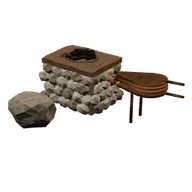
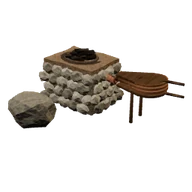
Avance: la fragua, el lecho del barro del horno, su fuego más bajo y las horquillas de madera; iconos v40 de nuevo
Claude-Session: https://claude.ai/code/session_011XgxtmKxw3WqFnpy7a4tHE

Changed region(s): [[0.2188, 0.2188, 0.6562, 0.4062], [0.6562, 0.5, 0.75, 0.625]]

diff --git a/src/juego/estaciones.js b/src/juego/estaciones.js
@@ -422,7 +422,7 @@ function humoHorno(id) {
 // de cara plana, medio hundida en el suelo. El carbón puesto para arder se ve en la cubeta; encendida, el fuego de la
 // hoguera (src/juego/estaciones.js, modeloFuego) arde encima del lecho.
 const FRAGUA = { ancho: 0.95, fondo: 0.72, alto: 0.72 };
-const BARRO_FRAGUA = 0x6b5848;
+const BARRO_FRAGUA = 0x7d6a58;   // (el barro seco del horno de reducción)
 function fragua(id) {
   const { ancho: X, fondo: Z, alto: A } = FRAGUA, L = new Lote({ rangoSuelo: 0.3, variacion: 0.08 });
   L.add(new THREE.BoxGeometry(X - 0.1, A - 0.06, Z - 0.1), 'piedraOsc', 0, (A - 0.06) / 2, 0, null, { tex: 'piedra' });   // el relleno, que no se vea por los huecos
@@ -441,7 +441,7 @@ function fragua(id) {
     }
   }
   // el lecho de barro de arriba, con el borde redondeado, y la cubeta del fuego en medio, quemada
-  const lecho = new THREE.BoxGeometry(X + 0.03, 0.08, Z + 0.03, 6, 1, 5), pl = lecho.attributes.position;   // pisado a mano: ni plano ni recto
+  const lecho = new THREE.BoxGeometry(X - 0.04, 0.06, Z - 0.04, 6, 1, 5), pl = lecho.attributes.position;   // pisado a mano: ni plano ni recto
   for (let i = 0; i < pl.count; i++) { const k = Math.round(pl.getX(i) * 40) + ':' + Math.round(pl.getZ(i) * 40); pl.setY(i, pl.getY(i) + (pl.getY(i) > 0 ? (az(id, 'l' + k) - 0.5) * 0.025 : 0)); pl.setX(i, pl.getX(i) * (1 + (az(id, 'x' + k) - 0.5) * 0.05)); pl.setZ(i, pl.getZ(i) * (1 + (az(id, 'z' + k) - 0.5) * 0.05)); }
   lecho.computeVertexNormals();
   L.add(lecho, BARRO_FRAGUA, 0, A - 0.03, 0, null, { tex: 'piedra', sinSuelo: true });
@@ -453,8 +453,8 @@ function fragua(id) {
   L.add(new THREE.TorusGeometry(0.05, 0.012, 5, 12), 'tejaOsc', X / 2 + 0.16, A - 0.19, 0, { y: Math.PI / 2 }, { sinSuelo: true });
   // las dos horquillas de vara del fuelle
   for (const dz of [-0.13, 0.13]) {
-    L.add(cil(0.018, 0.022, 0.5, 6), 'corteza', X / 2 + 0.52, 0.25, dz, null, {});
-    for (const s of [-1, 1]) L.add(cil(0.012, 0.016, 0.12, 5), 'corteza', X / 2 + 0.52 + s * 0.03, 0.53, dz, { z: -s * 0.5 }, { sinSuelo: true });
+    L.add(cil(0.02, 0.025, 0.5, 6), 0x6a5540, X / 2 + 0.52, 0.25, dz, null, { tex: 'veta' });
+    for (const s of [-1, 1]) L.add(cil(0.013, 0.017, 0.12, 5), 0x6a5540, X / 2 + 0.52 + s * 0.03, 0.53, dz, { z: -s * 0.5 }, { sinSuelo: true });
   }
   // el yunque, delante (+z): una piedra grande de cara plana, medio hundida
   const yun = piedraIrregular(0.26, 2, id + 'yunque', 0.14), p = yun.attributes.position;
@@ -1393,7 +1393,7 @@ export function crearEstaciones({ raiz, altura, fab }) {
     o.userData.firmaFuego = firma;
     const viejo = o.getObjectByName('fuego'); if (viejo) o.remove(viejo);
     const r = o.getObjectByName('ramas'); if (r) r.visible = v.ramas;
-    if (v.cual) { const f = modeloFuego(v.cual, e.id), m = o.getObjectByName('modelo'); f.position.y = (m && m.userData.alzaFuego) || 0; o.add(f); }
+    if (v.cual) { const f = modeloFuego(v.cual, e.id), m = o.getObjectByName('modelo'); f.position.y = (m && m.userData.alzaFuego) || 0; if (e.tipo === 'fragua') f.scale.setScalar(0.7); o.add(f); }   // (la fragua: un fuego de carbón, más bajo, en su cubeta)
   }
   // el horno de reducción (P10) y la carbonera (oficios): mientras alguna carga no ha terminado (según la hora de este navegador), humo, llama y
   // el arco y la tobera al rojo; si no, nada
